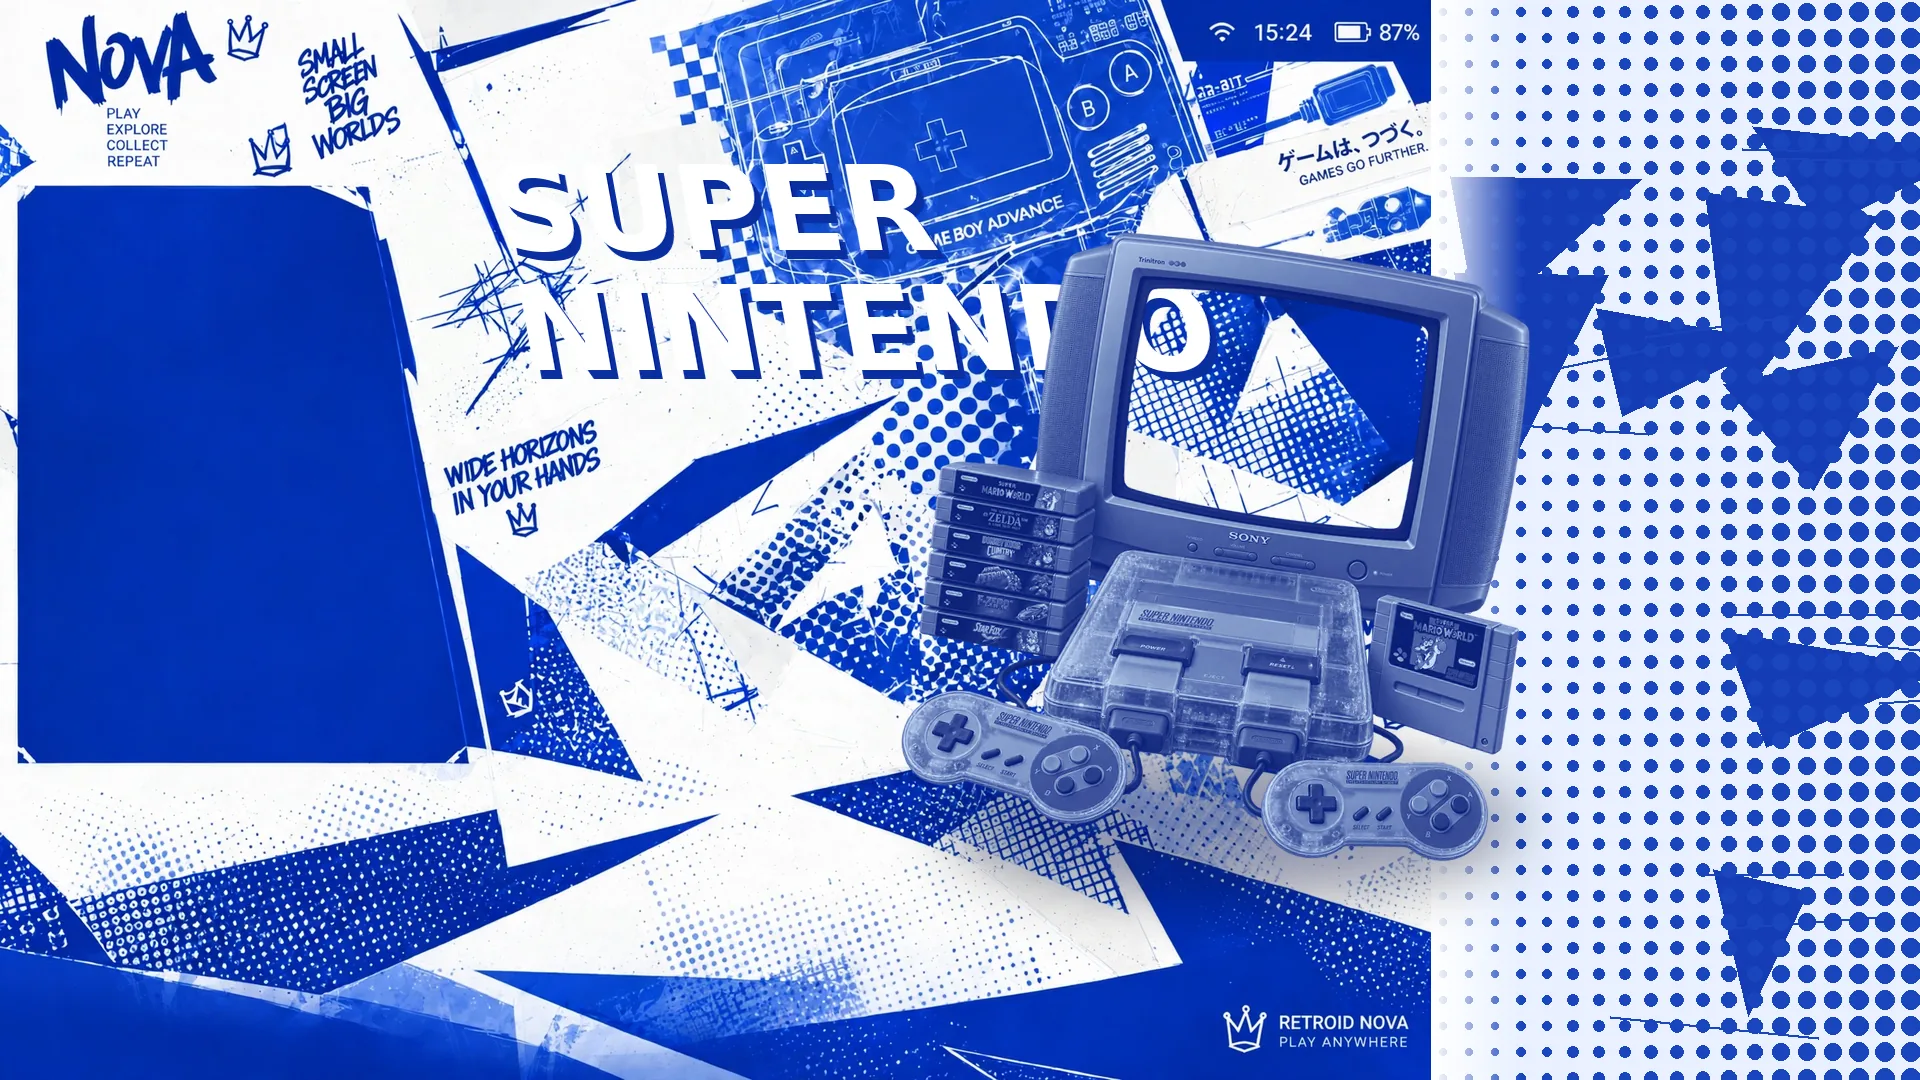
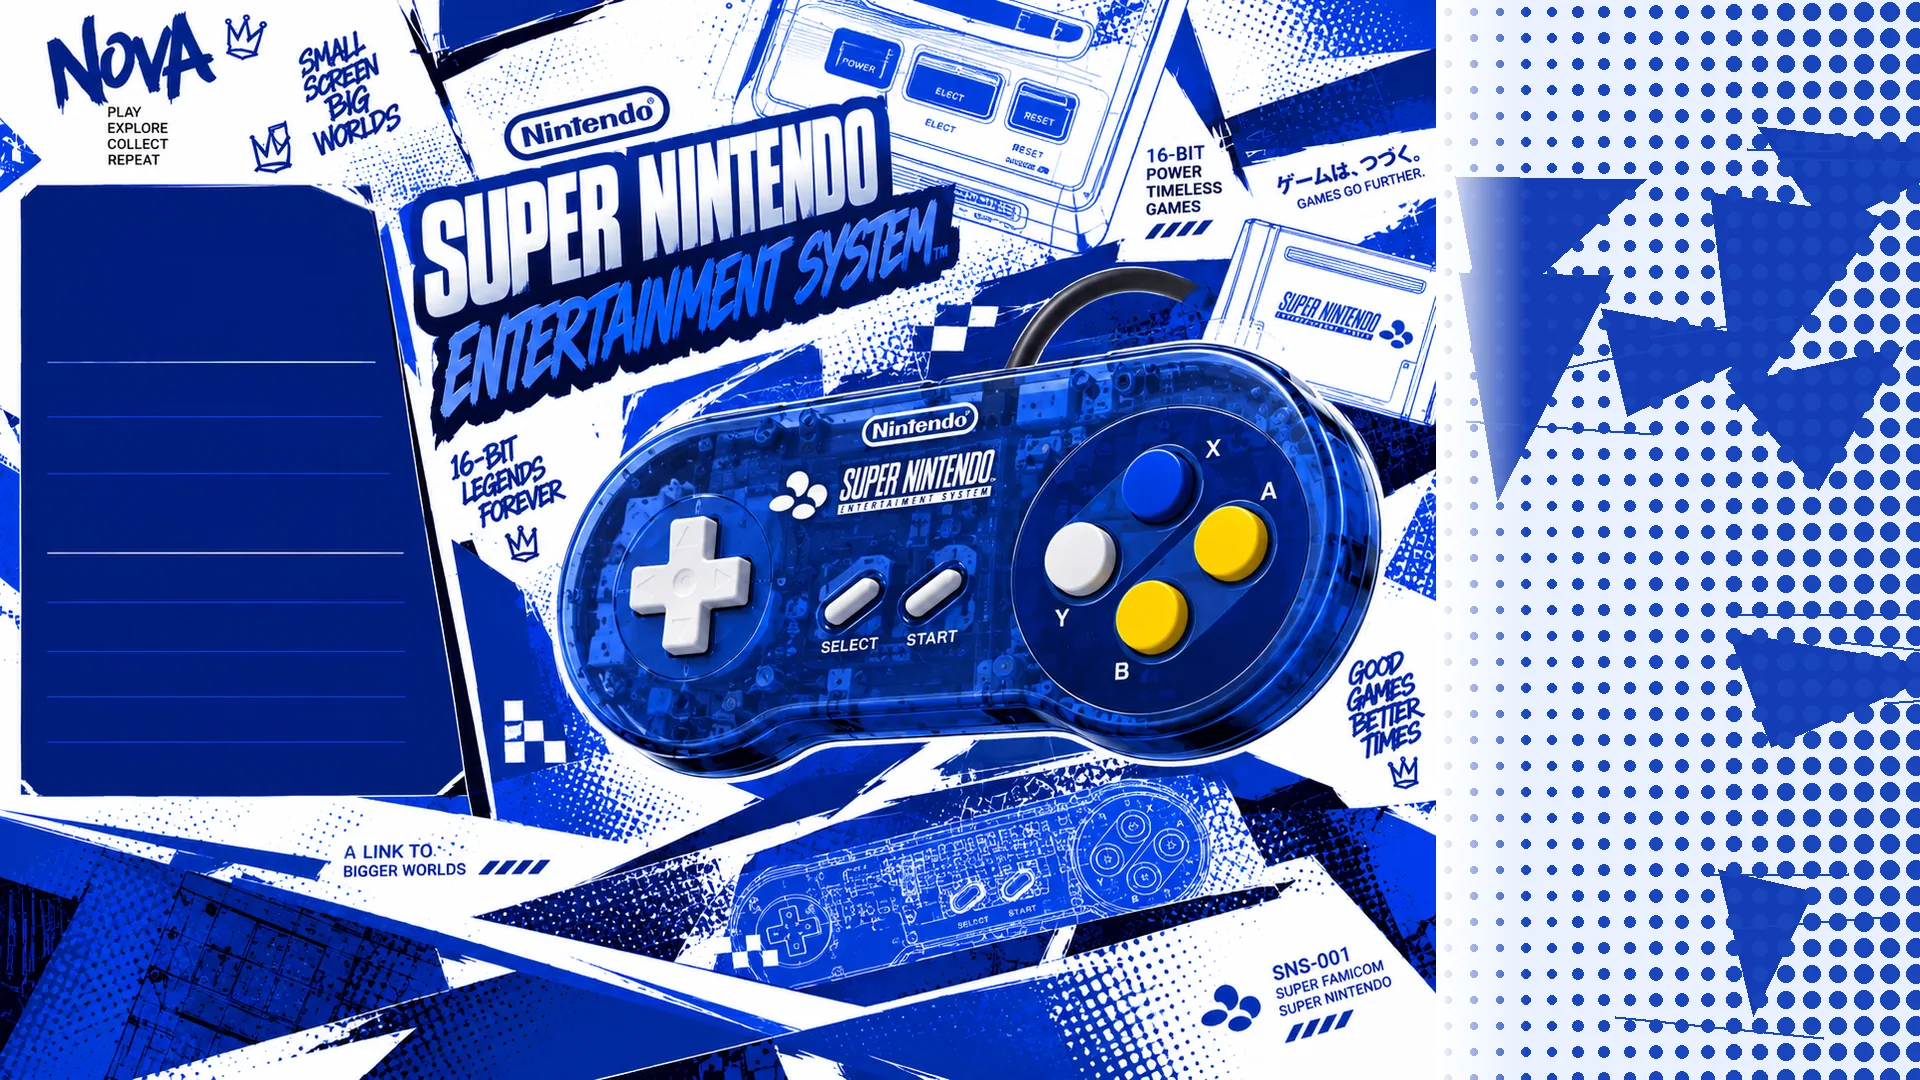
Crystal ES-DE v3.0.2: supplied SNES hero as the SNES background
- Integrates the user's art-directed SNES hero (blue/white comic, graffiti
  SUPER NINTENDO title, clear-blue controller with yellow buttons) as
  backgrounds/snes.webp at 1920x1080 with procedural comic extension.
- SNES panel is wide enough for the standard text layout: no per-system
  text overrides needed (verified with a positioned text mock).
- compose_v3.py is now import-safe (main() guard) and comic_fill() is
  hoisted to module level so hero art can be applied without re-running
  the full composition.

diff --git a/work/compose_v3.py b/work/compose_v3.py
@@ -188,13 +188,14 @@ def paste_hero(base, fg, cx, cy, max_w, max_h, angle=-8):
     base.alpha_composite(fg, (int(cx - fw/2), int(cy - fh/2)))
 
 
-print('building base canvas...')
-tpl = Image.open(os.path.join(
-    WORK, 'media-generation-blue-template-clean-0-4bfe272b-0cae-4202-a08b-c2d3308d5678.png')).convert('RGB')
-tw, th = tpl.size
-sc = 1080 / th
-nw = int(tw * sc)
-scaled = tpl.resize((nw, 1080), Image.LANCZOS)
+def main():
+    print('building base canvas...')
+    tpl = Image.open(os.path.join(
+        WORK, 'media-generation-blue-template-clean-0-4bfe272b-0cae-4202-a08b-c2d3308d5678.png')).convert('RGB')
+    tw, th = tpl.size
+    sc = 1080 / th
+    nw = int(tw * sc)
+    scaled = tpl.resize((nw, 1080), Image.LANCZOS)
 def comic_fill(w, h):
     """Procedural blue/white comic fill for the canvas extension (no mirrored text)."""
     import random
@@ -217,61 +218,66 @@ def comic_fill(w, h):
     return img
 
 
-base = Image.new('RGB', (1920, 1080), (255, 255, 255))
-base.paste(scaled, (0, 0))
-if nw < 1920:
-    # procedural comic extension with soft seam blend (no mirrored artifacts)
-    need = 1920 - nw
-    fill = comic_fill(need, 1080)
-    bw = min(90, need)
-    mask = Image.new('L', (need, 1080), 255)
-    mp = mask.load()
-    for x in range(bw):
-        v = int(255 * x / bw)
-        for y in range(1080):
-            mp[x, y] = v
-    base.paste(fill.convert('RGB'), (nw, 0), mask)
-base_rgba = base.convert('RGBA')
-base_rgba.save(os.path.join(WORK, 'base_1920.png'))
-print('base saved', base_rgba.size)
+    base = Image.new('RGB', (1920, 1080), (255, 255, 255))
+    base.paste(scaled, (0, 0))
+    if nw < 1920:
+        # procedural comic extension with soft seam blend (no mirrored artifacts)
+        need = 1920 - nw
+        fill = comic_fill(need, 1080)
+        bw = min(90, need)
+        mask = Image.new('L', (need, 1080), 255)
+        mp = mask.load()
+        for x in range(bw):
+            v = int(255 * x / bw)
+            for y in range(1080):
+                mp[x, y] = v
+        base.paste(fill.convert('RGB'), (nw, 0), mask)
+    base_rgba = base.convert('RGBA')
+    base_rgba.save(os.path.join(WORK, 'base_1920.png'))
+    print('base saved', base_rgba.size)
 
-print('compositing backgrounds...')
-for sys, meta in SYSTEMS.items():
-    cv = base_rgba.copy()
-    draw_title(cv, meta['title'], 470, 130, 780, size=150)
-    fg = load_fg(meta['fg'])
-    paste_hero(cv, fg, 1230, 545, 1020, 600)
-    cv.convert('RGB').save(os.path.join(OUT_BG, f'{sys}.webp'), 'WEBP', quality=82, method=6)
-    print(' bg', sys)
+    print('compositing backgrounds...')
+    for sys, meta in SYSTEMS.items():
+        cv = base_rgba.copy()
+        draw_title(cv, meta['title'], 470, 130, 780, size=150)
+        fg = load_fg(meta['fg'])
+        paste_hero(cv, fg, 1230, 545, 1020, 600)
+        cv.convert('RGB').save(os.path.join(OUT_BG, f'{sys}.webp'), 'WEBP', quality=82, method=6)
+        print(' bg', sys)
 
-# _default: clean base, no title/console
-base_rgba.convert('RGB').save(os.path.join(OUT_BG, '_default.webp'), 'WEBP', quality=82, method=6)
-print(' bg _default')
+    # _default: clean base, no title/console
+    base_rgba.convert('RGB').save(os.path.join(OUT_BG, '_default.webp'), 'WEBP', quality=82, method=6)
+    print(' bg _default')
 
-print('compositing cards...')
-# card backdrop: comic crop from base
-cardbg_src = base_rgba.crop((700, 150, 1150, 700)).resize((400, 424), Image.LANCZOS)
-for sys, meta in SYSTEMS.items():
-    card = cardbg_src.copy()
-    d = ImageDraw.Draw(card, 'RGBA')
-    d.rectangle([0, 0, 399, 423], outline=(255, 255, 255, 255), width=10)
-    # name plate
-    f = ImageFont.truetype(FONT_BOLD, 40)
-    name = meta['card']
-    while f.getlength(name) > 330 and f.size > 18:
-        f = ImageFont.truetype(FONT_BOLD, f.size - 2)
-    twd = f.getlength(name)
-    d.text((200 - twd/2 + 3, 18 + 3), name, font=f, fill=BLUE + (255,))
-    d.text((200 - twd/2, 18), name, font=f, fill=(255, 255, 255, 255))
-    # hardware
-    fg = load_fg(meta['fg'])
-    w, h = fg.size
-    s = min(320 / w, 250 / h)
-    fg = fg.resize((int(w*s), int(h*s)), Image.LANCZOS)
-    card.alpha_composite(fg, (int(200 - fg.size[0]/2), int(300 - fg.size[1]/2)))
-    # selected-glow edge (subtle inner)
-    card.save(os.path.join(OUT_CARD, f'{sys}.png'))
-    print(' card', sys)
+    print('compositing cards...')
+    # card backdrop: comic crop from base
+    cardbg_src = base_rgba.crop((700, 150, 1150, 700)).resize((400, 424), Image.LANCZOS)
+    for sys, meta in SYSTEMS.items():
+        card = cardbg_src.copy()
+        d = ImageDraw.Draw(card, 'RGBA')
+        d.rectangle([0, 0, 399, 423], outline=(255, 255, 255, 255), width=10)
+        # name plate
+        f = ImageFont.truetype(FONT_BOLD, 40)
+        name = meta['card']
+        while f.getlength(name) > 330 and f.size > 18:
+            f = ImageFont.truetype(FONT_BOLD, f.size - 2)
+        twd = f.getlength(name)
+        d.text((200 - twd/2 + 3, 18 + 3), name, font=f, fill=BLUE + (255,))
+        d.text((200 - twd/2, 18), name, font=f, fill=(255, 255, 255, 255))
+        # hardware
+        fg = load_fg(meta['fg'])
+        w, h = fg.size
+        s = min(320 / w, 250 / h)
+        fg = fg.resize((int(w*s), int(h*s)), Image.LANCZOS)
+        card.alpha_composite(fg, (int(200 - fg.size[0]/2), int(300 - fg.size[1]/2)))
+        # selected-glow edge (subtle inner)
+        card.save(os.path.join(OUT_CARD, f'{sys}.png'))
+        print(' card', sys)
 
-cardbg_src.save(os.path.join(OUT_CARD, '_default.png'))
-print('DONE')
+    cardbg_src.save(os.path.join(OUT_CARD, '_default.png'))
+    print('DONE')
+
+
+
+if __name__ == '__main__':
+    main()
